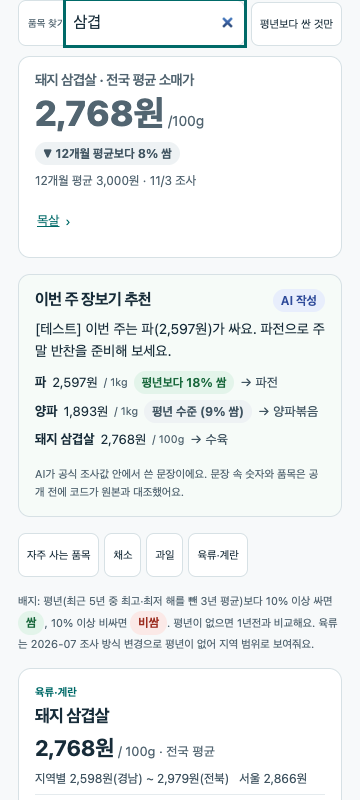
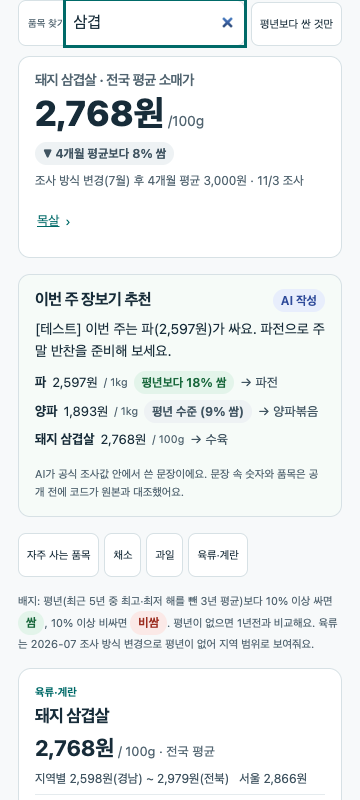
fix: 장보기 기준값 행 변경 시 승계 차단, 카드 UX 보강, 육류 조사 방식 문구

Changed region(s): [[0.0917, 0.125, 0.7028, 0.25], [0.7333, 0.2188, 0.8556, 0.25], [0.0917, 0.125, 0.1528, 0.1562]]

diff --git a/frontend/src/style.css b/frontend/src/style.css
@@ -1,4 +1,4 @@
-:root{font-family:system-ui,-apple-system,BlinkMacSystemFont,"Apple SD Gothic Neo","Malgun Gothic",sans-serif;color:#172c39;background:#f7f9fa;font-synthesis:none;line-height:1.6;font-size:16px;font-weight:400;--accent:#006a68;--muted:#526571;--line:#d7e1e5}*{box-sizing:border-box}body{margin:0}button,input,select{font:inherit;color:inherit}button,a,input,select,summary{-webkit-tap-highlight-color:transparent}button,summary,select{cursor:pointer}button{min-height:44px;border:1px solid var(--line);border-radius:8px;background:white;padding:8px 14px}a{color:var(--accent);text-underline-offset:4px}a:focus-visible,button:focus-visible,input:focus-visible,select:focus-visible,summary:focus-visible,[tabindex]:focus-visible{outline:3px solid #006a68;outline-offset:4px}h1,h2,h3,p{margin:0}h1,h2,h3{line-height:1.35;letter-spacing:-.035em}button:hover{background:#eef5f4}button[aria-pressed=true]{background:#e0f0ed;color:#005d59;border-color:#006a68;font-weight:650}.container,.header-inner{max-width:1200px;margin:0 auto;padding:0 28px}.site-header{border-bottom:1px solid var(--line);background:#fff}.header-inner{height:80px;display:flex;align-items:center;justify-content:space-between;gap:16px}.brand{display:flex;align-items:center;gap:10px;color:#172c39;text-decoration:none;font-size:19px;font-weight:750;min-height:44px;letter-spacing:-.6px}.brand-mark{display:flex;align-items:center;justify-content:center;background:var(--accent);color:white;width:34px;height:34px;border-radius:10px;font-size:22px;letter-spacing:-4px;padding-right:4px}.brand-mark span{font-weight:450}.version{font-size:11px;letter-spacing:0;color:var(--muted);border:1px solid var(--line);border-radius:4px;padding:0 5px}.login-note{font-size:13px;color:var(--muted)}.hero{padding:55px 0 28px}.eyebrow{font-size:12px;letter-spacing:.06em;color:var(--accent);font-weight:700;margin-bottom:13px}.eyebrow span{font-size:9px;margin-right:6px}.hero h1{font-size:42px;font-weight:760;letter-spacing:-.055em;margin-bottom:13px}.hero h1 span{color:var(--accent)}.hero-description{color:var(--muted);font-size:16px}.mobile-break{display:none}.discovery{background:white;border:1px solid var(--line);border-radius:14px;padding:18px}.search-box{display:flex;gap:10px;align-items:center;background:#f7f9fa;border:1px solid #aebdc6;border-radius:9px;padding:0 16px}.search-icon{font-size:30px;line-height:1;color:#526571;transform:rotate(-15deg)}input[type=search]{width:100%;height:54px;min-width:0;background:transparent;border:0;padding:8px 0;outline-offset:0}input::placeholder{color:#62737d}.filter-row{display:flex;align-items:center;gap:10px;flex-wrap:wrap;margin-top:14px}.filter-field{display:flex;align-items:center;border:1px solid var(--line);border-radius:8px;padding-left:12px;background:white;min-width:170px}.filter-field label{font-size:12px;color:var(--muted);white-space:nowrap}.filter-field select{border:0;background:transparent;min-height:44px;padding:8px;max-width:210px;flex:1;min-width:0;font-size:14px}.quick-filters{display:flex;gap:8px}.quick-filters button{font-size:13px}.quick-filters button span{margin-left:5px}.reset{margin-left:auto;font-size:13px;border:0;color:var(--muted);text-decoration:underline}.region-hint{font-size:12px;color:var(--muted);padding:10px 2px}.overview{display:grid;grid-template-columns:1fr 1fr 1.3fr;margin:20px 0 22px;border-bottom:1px solid var(--line);padding:0 0 23px}.overview>div{padding:0 24px;border-right:1px solid var(--line)}.overview>div:first-child{padding-left:0}.overview>div:last-child{border:0}.metric-label{display:block;font-size:12px;color:var(--muted);margin-bottom:4px}.overview strong{display:block;font-size:28px;font-weight:700;line-height:1.5}.overview small{font-size:13px;font-weight:400;margin-left:5px;color:var(--muted)}.overview .last-verified strong{font-size:14px;margin-top:10px;font-weight:550}.notice{display:flex;align-items:flex-start;gap:12px;border:1px solid #c9ded9;background:#edf5f2;border-radius:10px;padding:15px 18px;font-size:13px;color:#244e48}.notice strong{font-weight:650}.notice p{margin-top:3px;color:#405e59;font-size:12px}.status-dot{width:7px;height:7px;border-radius:50%;background:var(--accent);margin-top:8px;flex-shrink:0}.notice.warning{background:#fff5e6;border-color:#e0c9a3;color:#70410a}.notice.warning>span{display:flex;border:1px solid currentColor;width:20px;height:20px;border-radius:50%;justify-content:center;font-weight:750;flex-shrink:0}.notice.warning p{color:#704b20}.notice button{margin-top:12px;font-size:13px}.results{padding:30px 0 45px;scroll-margin-top:15px}.results-heading{display:flex;align-items:center;justify-content:space-between;margin-bottom:18px;gap:10px}.results h2{font-size:21px}.results h2>span{font-size:14px;color:var(--accent);font-weight:650;margin-left:7px;white-space:nowrap}.sort-field select{background:transparent;border:1px solid transparent;min-height:44px;font-size:13px;max-width:130px}.card-grid{display:grid;grid-template-columns:repeat(3,minmax(0,1fr));gap:16px;align-items:start}.benefit-card{display:flex;flex-direction:column;min-width:0;background:#fff;border:1px solid var(--line);border-radius:13px;padding:21px;overflow-wrap:anywhere}.card-meta{display:flex;justify-content:space-between;align-items:center;gap:8px;font-size:11px;margin-bottom:15px}.category{color:var(--accent);font-weight:650}.timing{color:var(--muted);background:#f0f4f5;border-radius:5px;padding:3px 7px}.timing.urgent{background:#fff0d8;color:#805000;font-weight:650}.benefit-card h3{font-size:19px;font-weight:700;display:-webkit-box;-webkit-line-clamp:2;-webkit-box-orient:vertical;overflow:hidden;min-height:52px}.card-source{font-size:12px;color:var(--muted);margin-top:11px}.card-tags{display:flex;flex-wrap:wrap;gap:6px;margin:12px 0}.card-tags span{font-size:11px;border:1px solid #e0e7e9;border-radius:5px;padding:2px 6px;color:#435a66}.card-conditions{font-size:13px;color:#405461;line-height:1.7;display:-webkit-box;-webkit-line-clamp:3;-webkit-box-orient:vertical;overflow:hidden;min-height:66px}.verified{font-size:11px;color:var(--muted);margin:17px 0 12px}.verified time{white-space:nowrap}.card-details{border-top:1px solid #e5ebee}.card-details summary{min-height:44px;display:flex;align-items:center;justify-content:space-between;font-size:13px;font-weight:550;list-style:none}.card-details summary::-webkit-details-marker{display:none}.card-details[open] summary>span{transform:rotate(45deg)}.details-body{padding:8px 0 16px;font-size:13px}.details-body dl{margin:0}.details-body dt{font-size:11px;color:var(--muted);margin-top:12px}.details-body dd{margin:2px 0 0;white-space:pre-line}.original-title{font-size:13px;font-weight:600}.full-conditions{line-height:1.75}.details-body>a{display:inline-flex;align-items:center;min-height:44px;margin-top:10px}.fine-print{font-size:11px;line-height:1.7;color:var(--muted);margin-top:15px}.official-link{display:flex;align-items:center;justify-content:space-between;min-height:44px;border:1px solid #bed6d1;background:#f0f7f5;border-radius:7px;padding:8px 12px;text-decoration:none;font-size:13px;font-weight:650}.official-link:hover{background:#e0efeb}.empty-state{text-align:center;background:white;border:1px dashed #b9c8d0;border-radius:12px;padding:46px 24px;min-height:240px}.empty-symbol{display:inline-flex;align-items:center;justify-content:center;width:46px;height:46px;background:#eff4f5;border-radius:50%;font-size:32px;color:var(--muted);margin-bottom:16px}.empty-state h3{font-size:18px}.empty-state p{color:var(--muted);font-size:13px;margin:10px auto 18px;max-width:470px}.primary-button{background:var(--accent);color:white;border-color:var(--accent)}.primary-button:hover{background:#005451}.trust-section{border-top:1px solid var(--line);padding:35px 0 50px;display:grid;grid-template-columns:1fr 1.2fr;gap:45px}.trust-intro .eyebrow{font-size:11px}.trust-intro h2{font-size:22px}.trust-intro>p:last-child{font-size:13px;color:var(--muted);margin-top:12px}.collection-details>details{background:white;border:1px solid var(--line);border-radius:10px}.collection-details summary{min-height:52px;padding:13px 16px;font-size:14px;font-weight:600}.collection-details summary>span{font-size:11px;color:var(--muted);margin-left:8px}.coverage-body{padding:0 18px 18px;overflow-wrap:anywhere;font-size:12px}.coverage-body p{margin:12px 0;color:var(--muted)}.coverage-body ul{list-style:none;padding:0}.coverage-body li{border-top:1px solid #e5ebee;padding:10px 0;display:flex;flex-direction:column;gap:3px}.coverage-body li span,.coverage-body li small{color:var(--muted)}.site-footer{background:#fff;border-top:1px solid var(--line)}.footer-inner{padding-top:26px;padding-bottom:26px;display:flex;justify-content:space-between;gap:18px;flex-wrap:wrap;font-size:12px}.footer-inner strong{font-size:14px}.footer-inner p{color:var(--muted);margin-top:4px}.footer-inner nav{display:flex;gap:20px;align-items:flex-start}.footer-inner nav a{min-height:44px;display:flex;align-items:center}.cost-note{width:100%;font-size:10px}.sr-only{position:absolute;width:1px;height:1px;padding:0;margin:-1px;overflow:hidden;clip:rect(0,0,0,0);white-space:nowrap;border:0}.skip-link{position:fixed;top:-100px;left:12px;z-index:10;background:#fff;padding:12px;border:2px solid var(--accent)}.skip-link:focus{top:12px}@media(max-width:1199px){.card-grid{grid-template-columns:repeat(2,minmax(0,1fr))}}@media(max-width:767px){.container,.header-inner{padding-left:18px;padding-right:18px}.header-inner{height:65px}.brand{font-size:16px;gap:8px}.brand-mark{width:30px;height:30px;font-size:19px}.version{display:none}.login-note{font-size:10px}.hero{padding:31px 0 23px}.hero h1{font-size:34px;margin-bottom:12px}.mobile-break{display:initial}.hero-description{font-size:13px;line-height:1.8}.eyebrow{font-size:10px}.discovery{padding:12px;border-radius:11px}.search-box{padding:0 10px;gap:7px}.search-icon{font-size:26px}input[type=search]{height:48px;font-size:13px}.filter-row{gap:8px;margin-top:10px}.filter-field{min-width:0;width:calc(50% - 4px);padding-left:9px}.filter-field select{max-width:100%;font-size:12px;padding-right:4px}.filter-field label{font-size:10px}.quick-filters button{font-size:12px;padding:8px 11px}.quick-filters{gap:7px}.reset{margin-left:0;font-size:11px;padding:6px 4px}.region-hint{font-size:10px;padding-top:8px}.overview{margin-top:13px;padding-bottom:18px;grid-template-columns:1fr 1fr;row-gap:16px}.overview>div{padding:0 15px}.overview>div:nth-child(2){border:0}.overview>div.last-verified{padding:0;grid-column:1/-1;display:flex;align-items:center;gap:10px}.overview .last-verified strong{font-size:11px;margin-top:0}.last-verified .metric-label{font-size:10px;margin:0}.metric-label{font-size:11px}.overview strong{font-size:25px}.notice{padding:12px;gap:9px;font-size:12px}.notice p{font-size:11px}.results{padding-top:23px;padding-bottom:31px}.results h2{font-size:18px}.results h2>span{font-size:12px}.sort-field select{font-size:11px}.card-grid{grid-template-columns:minmax(0,1fr);gap:13px}.benefit-card{padding:18px}.benefit-card h3{font-size:19px;min-height:0}.card-meta{margin-bottom:13px}.card-conditions{min-height:0}.verified{font-size:10px;margin-top:14px}.trust-section{grid-template-columns:1fr;gap:21px;padding:28px 0 35px}.trust-intro h2{font-size:20px}.trust-intro>p:last-child{font-size:12px}.footer-inner{gap:12px}.footer-inner nav{gap:15px}.footer-inner nav a{font-size:11px}.empty-state{padding:30px 18px}.empty-state h3{font-size:16px}}@media(prefers-reduced-motion:reduce){*,*::before,*::after{scroll-behavior:auto!important;animation:none!important;transition:none!important}}@media(forced-colors:active){button,.official-link{border:1px solid ButtonText}.status-dot{border:1px solid CanvasText}}
+:root{font-family:system-ui,-apple-system,BlinkMacSystemFont,"Apple SD Gothic Neo","Malgun Gothic",sans-serif;color:#172c39;background:#f7f9fa;font-synthesis:none;line-height:1.6;font-size:16px;font-weight:400;--ink:#172c39;--accent:#006a68;--muted:#526571;--line:#d7e1e5}*{box-sizing:border-box}body{margin:0}button,input,select{font:inherit;color:inherit}button,a,input,select,summary{-webkit-tap-highlight-color:transparent}button,summary,select{cursor:pointer}button{min-height:44px;border:1px solid var(--line);border-radius:8px;background:white;padding:8px 14px}a{color:var(--accent);text-underline-offset:4px}a:focus-visible,button:focus-visible,input:focus-visible,select:focus-visible,summary:focus-visible,[tabindex]:focus-visible{outline:3px solid #006a68;outline-offset:4px}h1,h2,h3,p{margin:0}h1,h2,h3{line-height:1.35;letter-spacing:-.035em}button:hover{background:#eef5f4}button[aria-pressed=true]{background:#e0f0ed;color:#005d59;border-color:#006a68;font-weight:650}.container,.header-inner{max-width:1200px;margin:0 auto;padding:0 28px}.site-header{border-bottom:1px solid var(--line);background:#fff}.header-inner{height:80px;display:flex;align-items:center;justify-content:space-between;gap:16px}.brand{display:flex;align-items:center;gap:10px;color:#172c39;text-decoration:none;font-size:19px;font-weight:750;min-height:44px;letter-spacing:-.6px}.brand-mark{display:flex;align-items:center;justify-content:center;background:var(--accent);color:white;width:34px;height:34px;border-radius:10px;font-size:22px;letter-spacing:-4px;padding-right:4px}.brand-mark span{font-weight:450}.version{font-size:11px;letter-spacing:0;color:var(--muted);border:1px solid var(--line);border-radius:4px;padding:0 5px}.login-note{font-size:13px;color:var(--muted)}.hero{padding:55px 0 28px}.eyebrow{font-size:12px;letter-spacing:.06em;color:var(--accent);font-weight:700;margin-bottom:13px}.eyebrow span{font-size:9px;margin-right:6px}.hero h1{font-size:42px;font-weight:760;letter-spacing:-.055em;margin-bottom:13px}.hero h1 span{color:var(--accent)}.hero-description{color:var(--muted);font-size:16px}.mobile-break{display:none}.discovery{background:white;border:1px solid var(--line);border-radius:14px;padding:18px}.search-box{display:flex;gap:10px;align-items:center;background:#f7f9fa;border:1px solid #aebdc6;border-radius:9px;padding:0 16px}.search-icon{font-size:30px;line-height:1;color:#526571;transform:rotate(-15deg)}input[type=search]{width:100%;height:54px;min-width:0;background:transparent;border:0;padding:8px 0;outline-offset:0}input::placeholder{color:#62737d}.filter-row{display:flex;align-items:center;gap:10px;flex-wrap:wrap;margin-top:14px}.filter-field{display:flex;align-items:center;border:1px solid var(--line);border-radius:8px;padding-left:12px;background:white;min-width:170px}.filter-field label{font-size:12px;color:var(--muted);white-space:nowrap}.filter-field select{border:0;background:transparent;min-height:44px;padding:8px;max-width:210px;flex:1;min-width:0;font-size:14px}.quick-filters{display:flex;gap:8px}.quick-filters button{font-size:13px}.quick-filters button span{margin-left:5px}.reset{margin-left:auto;font-size:13px;border:0;color:var(--muted);text-decoration:underline}.region-hint{font-size:12px;color:var(--muted);padding:10px 2px}.overview{display:grid;grid-template-columns:1fr 1fr 1.3fr;margin:20px 0 22px;border-bottom:1px solid var(--line);padding:0 0 23px}.overview>div{padding:0 24px;border-right:1px solid var(--line)}.overview>div:first-child{padding-left:0}.overview>div:last-child{border:0}.metric-label{display:block;font-size:12px;color:var(--muted);margin-bottom:4px}.overview strong{display:block;font-size:28px;font-weight:700;line-height:1.5}.overview small{font-size:13px;font-weight:400;margin-left:5px;color:var(--muted)}.overview .last-verified strong{font-size:14px;margin-top:10px;font-weight:550}.notice{display:flex;align-items:flex-start;gap:12px;border:1px solid #c9ded9;background:#edf5f2;border-radius:10px;padding:15px 18px;font-size:13px;color:#244e48}.notice strong{font-weight:650}.notice p{margin-top:3px;color:#405e59;font-size:12px}.status-dot{width:7px;height:7px;border-radius:50%;background:var(--accent);margin-top:8px;flex-shrink:0}.notice.warning{background:#fff5e6;border-color:#e0c9a3;color:#70410a}.notice.warning>span{display:flex;border:1px solid currentColor;width:20px;height:20px;border-radius:50%;justify-content:center;font-weight:750;flex-shrink:0}.notice.warning p{color:#704b20}.notice button{margin-top:12px;font-size:13px}.results{padding:30px 0 45px;scroll-margin-top:15px}.results-heading{display:flex;align-items:center;justify-content:space-between;margin-bottom:18px;gap:10px}.results h2{font-size:21px}.results h2>span{font-size:14px;color:var(--accent);font-weight:650;margin-left:7px;white-space:nowrap}.sort-field select{background:transparent;border:1px solid transparent;min-height:44px;font-size:13px;max-width:130px}.card-grid{display:grid;grid-template-columns:repeat(3,minmax(0,1fr));gap:16px;align-items:start}.benefit-card{display:flex;flex-direction:column;min-width:0;background:#fff;border:1px solid var(--line);border-radius:13px;padding:21px;overflow-wrap:anywhere}.card-meta{display:flex;justify-content:space-between;align-items:center;gap:8px;font-size:11px;margin-bottom:15px}.category{color:var(--accent);font-weight:650}.timing{color:var(--muted);background:#f0f4f5;border-radius:5px;padding:3px 7px}.timing.urgent{background:#fff0d8;color:#805000;font-weight:650}.benefit-card h3{font-size:19px;font-weight:700;display:-webkit-box;-webkit-line-clamp:2;-webkit-box-orient:vertical;overflow:hidden;min-height:52px}.card-source{font-size:12px;color:var(--muted);margin-top:11px}.card-tags{display:flex;flex-wrap:wrap;gap:6px;margin:12px 0}.card-tags span{font-size:11px;border:1px solid #e0e7e9;border-radius:5px;padding:2px 6px;color:#435a66}.card-conditions{font-size:13px;color:#405461;line-height:1.7;display:-webkit-box;-webkit-line-clamp:3;-webkit-box-orient:vertical;overflow:hidden;min-height:66px}.verified{font-size:11px;color:var(--muted);margin:17px 0 12px}.verified time{white-space:nowrap}.card-details{border-top:1px solid #e5ebee}.card-details summary{min-height:44px;display:flex;align-items:center;justify-content:space-between;font-size:13px;font-weight:550;list-style:none}.card-details summary::-webkit-details-marker{display:none}.card-details[open] summary>span{transform:rotate(45deg)}.details-body{padding:8px 0 16px;font-size:13px}.details-body dl{margin:0}.details-body dt{font-size:11px;color:var(--muted);margin-top:12px}.details-body dd{margin:2px 0 0;white-space:pre-line}.original-title{font-size:13px;font-weight:600}.full-conditions{line-height:1.75}.details-body>a{display:inline-flex;align-items:center;min-height:44px;margin-top:10px}.fine-print{font-size:11px;line-height:1.7;color:var(--muted);margin-top:15px}.official-link{display:flex;align-items:center;justify-content:space-between;min-height:44px;border:1px solid #bed6d1;background:#f0f7f5;border-radius:7px;padding:8px 12px;text-decoration:none;font-size:13px;font-weight:650}.official-link:hover{background:#e0efeb}.empty-state{text-align:center;background:white;border:1px dashed #b9c8d0;border-radius:12px;padding:46px 24px;min-height:240px}.empty-symbol{display:inline-flex;align-items:center;justify-content:center;width:46px;height:46px;background:#eff4f5;border-radius:50%;font-size:32px;color:var(--muted);margin-bottom:16px}.empty-state h3{font-size:18px}.empty-state p{color:var(--muted);font-size:13px;margin:10px auto 18px;max-width:470px}.primary-button{background:var(--accent);color:white;border-color:var(--accent)}.primary-button:hover{background:#005451}.trust-section{border-top:1px solid var(--line);padding:35px 0 50px;display:grid;grid-template-columns:1fr 1.2fr;gap:45px}.trust-intro .eyebrow{font-size:11px}.trust-intro h2{font-size:22px}.trust-intro>p:last-child{font-size:13px;color:var(--muted);margin-top:12px}.collection-details>details{background:white;border:1px solid var(--line);border-radius:10px}.collection-details summary{min-height:52px;padding:13px 16px;font-size:14px;font-weight:600}.collection-details summary>span{font-size:11px;color:var(--muted);margin-left:8px}.coverage-body{padding:0 18px 18px;overflow-wrap:anywhere;font-size:12px}.coverage-body p{margin:12px 0;color:var(--muted)}.coverage-body ul{list-style:none;padding:0}.coverage-body li{border-top:1px solid #e5ebee;padding:10px 0;display:flex;flex-direction:column;gap:3px}.coverage-body li span,.coverage-body li small{color:var(--muted)}.site-footer{background:#fff;border-top:1px solid var(--line)}.footer-inner{padding-top:26px;padding-bottom:26px;display:flex;justify-content:space-between;gap:18px;flex-wrap:wrap;font-size:12px}.footer-inner strong{font-size:14px}.footer-inner p{color:var(--muted);margin-top:4px}.footer-inner nav{display:flex;gap:20px;align-items:flex-start}.footer-inner nav a{min-height:44px;display:flex;align-items:center}.cost-note{width:100%;font-size:10px}.sr-only{position:absolute;width:1px;height:1px;padding:0;margin:-1px;overflow:hidden;clip:rect(0,0,0,0);white-space:nowrap;border:0}.skip-link{position:fixed;top:-100px;left:12px;z-index:10;background:#fff;padding:12px;border:2px solid var(--accent)}.skip-link:focus{top:12px}@media(max-width:1199px){.card-grid{grid-template-columns:repeat(2,minmax(0,1fr))}}@media(max-width:767px){.container,.header-inner{padding-left:18px;padding-right:18px}.header-inner{height:65px}.brand{font-size:16px;gap:8px}.brand-mark{width:30px;height:30px;font-size:19px}.version{display:none}.login-note{font-size:10px}.hero{padding:31px 0 23px}.hero h1{font-size:34px;margin-bottom:12px}.mobile-break{display:initial}.hero-description{font-size:13px;line-height:1.8}.eyebrow{font-size:10px}.discovery{padding:12px;border-radius:11px}.search-box{padding:0 10px;gap:7px}.search-icon{font-size:26px}input[type=search]{height:48px;font-size:13px}.filter-row{gap:8px;margin-top:10px}.filter-field{min-width:0;width:calc(50% - 4px);padding-left:9px}.filter-field select{max-width:100%;font-size:12px;padding-right:4px}.filter-field label{font-size:10px}.quick-filters button{font-size:12px;padding:8px 11px}.quick-filters{gap:7px}.reset{margin-left:0;font-size:11px;padding:6px 4px}.region-hint{font-size:10px;padding-top:8px}.overview{margin-top:13px;padding-bottom:18px;grid-template-columns:1fr 1fr;row-gap:16px}.overview>div{padding:0 15px}.overview>div:nth-child(2){border:0}.overview>div.last-verified{padding:0;grid-column:1/-1;display:flex;align-items:center;gap:10px}.overview .last-verified strong{font-size:11px;margin-top:0}.last-verified .metric-label{font-size:10px;margin:0}.metric-label{font-size:11px}.overview strong{font-size:25px}.notice{padding:12px;gap:9px;font-size:12px}.notice p{font-size:11px}.results{padding-top:23px;padding-bottom:31px}.results h2{font-size:18px}.results h2>span{font-size:12px}.sort-field select{font-size:11px}.card-grid{grid-template-columns:minmax(0,1fr);gap:13px}.benefit-card{padding:18px}.benefit-card h3{font-size:19px;min-height:0}.card-meta{margin-bottom:13px}.card-conditions{min-height:0}.verified{font-size:10px;margin-top:14px}.trust-section{grid-template-columns:1fr;gap:21px;padding:28px 0 35px}.trust-intro h2{font-size:20px}.trust-intro>p:last-child{font-size:12px}.footer-inner{gap:12px}.footer-inner nav{gap:15px}.footer-inner nav a{font-size:11px}.empty-state{padding:30px 18px}.empty-state h3{font-size:16px}}@media(prefers-reduced-motion:reduce){*,*::before,*::after{scroll-behavior:auto!important;animation:none!important;transition:none!important}}@media(forced-colors:active){button,.official-link{border:1px solid ButtonText}.status-dot{border:1px solid CanvasText}}
 
 /* Keep the first benefit headline within the initial mobile viewport. */
 @media(max-width:767px){.hero{padding:22px 0 20px}.hero h1{font-size:30px;margin-bottom:10px}.hero .mobile-break{display:none}.hero .eyebrow{margin-bottom:10px}.overview{grid-template-columns:1fr 1fr 1.5fr;gap:0;padding-bottom:14px;margin-bottom:18px}.overview>div{padding:0 10px}.overview>div:nth-child(2){border-right:1px solid var(--line)}.overview>div.last-verified{padding:0 0 0 10px;grid-column:auto;display:block}.overview .last-verified strong{font-size:10px;margin-top:6px}.metric-label,.last-verified .metric-label{font-size:10px}.card-conditions{font-size:14px}.official-link{font-size:14px}}
@@ -84,4 +84,4 @@
 .groceries{border-top:0}
 @media(max-width:767px){.pick-teaser h2{font-size:16px}.pick-teaser-summary{font-size:14px}}
 .pick-teaser-date{font-size:12px;color:var(--muted);margin:0 0 8px}
-.grocery-quick{border:1px solid var(--line);border-radius:12px;background:white;padding:14px 16px;margin:6px 0 16px}.grocery-quick h3{font-size:14px;font-weight:600;color:var(--muted);margin:0}.grocery-quick-price{margin:2px 0 6px;font-size:14px;color:var(--muted)}.grocery-quick-price strong{font-size:2.2rem;font-weight:800;color:inherit;line-height:1.2}.grocery-quick-note{margin:6px 0 0;font-size:12px;color:var(--muted)}.grocery-quick-links{margin:8px 0 0;font-size:13px;color:var(--accent)}.grocery-quick-links button{background:none;border:0;padding:0 2px;min-height:44px;font:inherit;color:var(--accent);cursor:pointer;text-decoration:underline}
+.grocery-quick{border:1px solid var(--line);border-radius:12px;background:white;padding:14px 16px;margin:6px 0 16px}.grocery-quick h3{font-size:14px;font-weight:600;color:var(--muted);margin:0}.grocery-quick-price{margin:2px 0 6px;font-size:14px;color:var(--muted)}.grocery-quick-price strong{font-size:2.2rem;font-weight:800;color:var(--ink);line-height:1.2}.grocery-quick-note{margin:6px 0 0;font-size:12px;color:var(--muted)}.grocery-quick-links{margin:8px 0 0;font-size:13px;color:var(--accent)}.grocery-quick-links button{background:none;border:0;padding:0 2px;min-height:44px;font:inherit;color:var(--accent);cursor:pointer;text-decoration:underline}

diff --git a/frontend/tests/e2e/groceries.spec.ts b/frontend/tests/e2e/groceries.spec.ts
@@ -128,7 +128,7 @@ const quickGroceries={...groceries,meat:{...groceries.meat,items:[...groceries.m
 const baseUnit='원/100g',checked=kst(1);
 const bl=(avg:number)=>({avg,months:14,from:'2025-09',to:'2026-10',unit:baseUnit,checked_at:checked});
 const grocery_baselines={schema_version:1,source:'grocery_baselines',items:[
- {id:'samgyeop',name:'돼지 삼겹살',aliases:['삼겹살','삼겹'],group:'고기·알',row:{kind:'meat',id:'4304-27-삼겹살'},baseline:bl(3000)},
+ {id:'samgyeop',name:'돼지 삼겹살',aliases:['삼겹살','삼겹'],group:'고기·알',row:{kind:'meat',id:'4304-27-삼겹살'},baseline:{...bl(3000),months:4}},
  {id:'daepae',name:'대패삼겹',aliases:['대패'],group:'고기·알',row:{kind:'meat',id:'9999-0-대패삼겹'},baseline:null},
  {id:'moksal',name:'목살',aliases:['돼지 목살'],group:'고기·알',row:{kind:'meat',id:'4304-28-목살'},baseline:null},
  {id:'apdari',name:'앞다리',aliases:['돼지 앞다리'],group:'고기·알',row:{kind:'meat',id:'9999-1-앞다리'},baseline:null}]};
@@ -153,7 +153,7 @@ for(const [width,height] of [[360,800],[390,844]])test(`quick check card answers
  await expect(card.locator('h3')).toHaveText('돼지 삼겹살 · 전국 평균 소매가');
  await expect(card.locator('.grocery-quick-price')).toHaveText(/2,768원\s*\/100g/);
  await expect(card.locator('.grocery-badge')).toContainText('개월 평균보다');
- await expect(card.locator('.grocery-quick-note')).toHaveText(`12개월 평균 3,000원 · ${m}/${d} 조사`);
+ await expect(card.locator('.grocery-quick-note')).toHaveText(`조사 방식 변경(7월) 후 4개월 평균 3,000원 · ${m}/${d} 조사`);
  // Items without a row today (대패삼겹, 앞다리) are not offered as links.
  await expect(card.locator('.grocery-quick-links')).toHaveText('목살 ›');
  await expect(card.getByRole('button',{name:'대패삼겹'})).toHaveCount(0);
@@ -166,6 +166,25 @@ for(const [width,height] of [[360,800],[390,844]])test(`quick check card answers
  await expect(card.locator('.grocery-badge')).toHaveCount(0);
  await expect(card.locator('.grocery-quick-note')).toHaveText(`${m}/${d} 조사`);
  expect(await page.evaluate(()=>document.documentElement.scrollWidth<=innerWidth)).toBe(true);
+});
+
+test('an alias-only search shows the card without the empty-state block and scrolls once',async({page})=>{
+ await page.setViewportSize({width:390,height:844});
+ await page.clock.install({time:new Date(NOW)});
+ await page.route('**/briefing.json',route=>route.fulfill({json:snapshot(undefined,{groceries:quickGroceries,grocery_pick:weekly,grocery_baselines})}));
+ await page.goto('./');
+ await page.getByRole('tab',{name:'장보기'}).click();
+ await page.evaluate(()=>{(window as any).__sc=0;const o=Element.prototype.scrollIntoView;Element.prototype.scrollIntoView=function(...a){if((this as Element).classList.contains('grocery-filters'))(window as any).__sc++;return o.apply(this,a as any);};});
+ const input=page.locator('#grocery-q');
+ await input.fill('삼겹');
+ await expect(page.locator('.grocery-quick h3')).toHaveText('돼지 삼겹살 · 전국 평균 소매가');
+ await input.pressSequentially('살');
+ await expect(page.locator('.grocery-quick h3')).toHaveText('돼지 삼겹살 · 전국 평균 소매가');
+ expect(await page.evaluate(()=>(window as any).__sc)).toBe(1);
+ await input.fill('돼지 목살');
+ await expect(page.locator('.grocery-quick h3')).toHaveText('목살 · 전국 평균 소매가');
+ await expect(page.locator('#groceries .empty-state')).toHaveCount(0);
+ expect(await page.evaluate(()=>(window as any).__sc)).toBe(2);
 });
 
 test('a search outside the basket explains it and shows no card',async({page})=>{

diff --git a/frontend/src/GrocerySection.vue b/frontend/src/GrocerySection.vue
@@ -38,8 +38,13 @@ function othersLine(r:PriceRow):string{
 const inBasket=computed(()=>!!quickMatch(q.value,basketItems.value));
 // Without a basket (baselines missing/stale) we cannot claim an item is outside it.
 const showNotInBasket=computed(()=>!!q.value.trim()&&basketItems.value.length>0&&!inBasket.value);
-// Bring the search field to the top so the card's answer (price + badge) is on the first screen.
-watch(q,()=>nextTick(()=>{if(document.querySelector('.grocery-quick'))document.querySelector('.grocery-filters')?.scrollIntoView({block:'start'});}));
+// The card shows only when the best basket match has a row today (same rule as GroceryQuickCheck).
+const quickKey=computed(()=>{
+ const hit=quickMatch(q.value,basketItems.value);
+ return hit&&bundle.value?.rows.some(r=>r.kind+r.id===hit.best.rowKey)?hit.best.rowKey:'';
+});
+// Bring the search field to the top once when the card first appears (or its best item changes), not on every keystroke.
+watch(quickKey,k=>{if(k)nextTick(()=>document.querySelector('.grocery-filters')?.scrollIntoView({block:'start'}));});
 function pickName(name:string){q.value=name;shown.value=PAGE;nextTick(()=>document.getElementById('grocery-q')?.focus());}
 function pick(c:string){category.value=c;q.value='';shown.value=PAGE;}
 </script>
@@ -103,7 +108,7 @@ function pick(c:string){category.value=c;q.value='';shown.value=PAGE;}
         <a class="grocery-source" :href="row.kind==='meat'?EKAPE_SOURCE:KAMIS_SOURCE" target="_blank" rel="noopener noreferrer">출처 {{ row.kind==='meat'?'축산물품질평가원':'KAMIS' }} <span aria-hidden="true">↗</span><span class="sr-only"> (새 창)</span></a>
       </article>
     </div>
-    <div v-else class="empty-state"><h3>조건에 맞는 품목이 없어요</h3><p>다른 부류를 고르거나 검색어를 바꿔 보세요.</p><p v-if="showNotInBasket">아직 자주 사는 품목에 없어요</p></div>
+    <div v-else-if="!quickKey" class="empty-state"><h3>조건에 맞는 품목이 없어요</h3><p>다른 부류를 고르거나 검색어를 바꿔 보세요.</p><p v-if="showNotInBasket">아직 자주 사는 품목에 없어요</p></div>
     <button v-if="filtered.length>visible.length" type="button" class="festival-more" @click="shown+=PAGE">더 보기 ({{ filtered.length-visible.length }}개 남음)</button>
   </section>
 </template>

diff --git a/frontend/src/GroceryQuickCheck.vue b/frontend/src/GroceryQuickCheck.vue
@@ -21,7 +21,7 @@ const view=computed(()=>{
     <h3>{{ view.item.name }} · 전국 평균 소매가</h3>
     <p class="grocery-quick-price"><strong>{{ won(view.row.current) }}</strong> /{{ view.row.unit.replace(/^원\//,'') }}</p>
     <span v-if="view.badge" class="grocery-badge" :class="view.badge.level">{{ view.badge.label }}</span>
-    <p class="grocery-quick-note"><template v-if="view.avg">{{ Math.min(view.avg.months,12) }}개월 평균 {{ won(view.avg.avg) }}<template v-if="view.date"> · </template></template><template v-if="view.date">{{ view.date }} 조사</template></p>
+    <p class="grocery-quick-note"><template v-if="view.avg"><template v-if="view.row.kind==='meat'">조사 방식 변경(7월) 후 </template>{{ Math.min(view.avg.months,12) }}개월 평균 {{ won(view.avg.avg) }}<template v-if="view.date"> · </template></template><template v-if="view.date">{{ view.date }} 조사</template></p>
     <p v-if="view.others.length" class="grocery-quick-links"><template v-for="(o,i) in view.others" :key="o.id"><template v-if="i"> · </template><button type="button" @click="emit('pick',o.name)">{{ o.name }}</button></template> ›</p>
   </div>
   </div>

diff --git a/benefit_monitor/grocery_baselines.py b/benefit_monitor/grocery_baselines.py
@@ -200,7 +200,7 @@ def collect(source, now, previous):
     today = _kst_today(now)
     checked = today.isoformat()
     kept = sanitize(previous, now)
-    prev = {i["id"]: i["baseline"] for i in kept["items"]} if kept else {}
+    prev = {i["id"]: i for i in kept["items"]} if kept else {}
     requests = _Requests(domains)
     for base, url in ((groceries.KAMIS, groceries.KAMIS_DAILY), (groceries.EKAPE, groceries.EKAPE_REGION)):
         requests.used += 1
@@ -249,7 +249,12 @@ def collect(source, now, previous):
             pass
     out = []
     for item in items:
-        baseline = result[item["id"]] if item["id"] in result else prev.get(item["id"])
+        if item["id"] in result:
+            baseline = result[item["id"]]
+        else:
+            old = prev.get(item["id"])
+            # Inherit only when the basket row is unchanged; a changed row would carry another series' average.
+            baseline = old["baseline"] if old and old["row"] == item["row"] else None
         out.append({k: item[k] for k in ("id", "name", "aliases", "group", "row")} | {"baseline": baseline})
     return {"schema_version": 1, "source": "grocery_baselines", "fetched_at": now.isoformat(), "items": out}
 

diff --git a/tests/test_grocery_baselines.py b/tests/test_grocery_baselines.py
@@ -319,6 +319,16 @@ class CollectTests(unittest.TestCase):
         self.assertEqual(got['rice']['baseline'], good())  # previous value and previous checked_at
         self.assertEqual(got['potato']['baseline']['checked_at'], '2026-11-10')
 
+    def test_collect_drops_previous_when_basket_row_changed(self):
+        previous = previous_bundle(good())
+        for item in previous['items']:
+            if item['id'] == 'rice':
+                item['row'] = {'kind': 'produce', 'id': 'old-row-id'}
+        web = FakeWeb(fail={'111': OSError('boom')})
+        got = by_id(run_collect(web, previous))
+        self.assertIsNone(got['rice']['baseline'])  # old row's average is not inherited by the new row
+        self.assertEqual(got['potato']['baseline']['checked_at'], '2026-11-10')
+
     def test_collect_robots_disallow_raises(self):
         def web(url, domains):
             if url.endswith('/robots.txt'):

diff --git a/AGENTS.md b/AGENTS.md
@@ -124,7 +124,7 @@ Python 표준 라이브러리만 사용한다. 키는 Git 제외·600 권한의 
 - 매장 가격 계산기는 브라우저 안에서만 계산하고 입력값을 저장·전송하지 않는다.
 - 이 변경으로 `publish.py`·`public_snapshot.py`가 바뀌어 `public/topic-publication.json`의 `policy_sha256`을 다시 기록했다. 주제 카드 게이트 로직은 바뀌지 않았다.
 
-장보기 "싼지 빠르게 확인" 카드의 기간 평균 기준값은 주 1회(일요일 23:07 KST, `.github/workflows/grocery-baselines.yml`)만 따로 수집한다. 요청은 약 27회이며 상한은 30회(`grocery_baselines.MAX_REQUESTS`)다. 결과는 `briefing-data/grocery-baselines.json`에 두고 일일 실행은 복원만 한다. 축산물은 2026-07-01(조사 방법 변경일) 이후만 평균에 쓰고, 30일이 지난 기준값은 폐기해 값으로 쓰지 않는다. 같은 무료 출처·익명 GET·robots·허용목록 규칙이며 사용자 승인일은 2026-11-10이다.
+장보기 "싼지 빠르게 확인" 카드의 기간 평균 기준값은 주 1회(일요일 23:07 KST, `.github/workflows/grocery-baselines.yml`)만 따로 수집한다. 요청은 약 27회이며 상한은 30회(`grocery_baselines.MAX_REQUESTS`)다. 결과는 `briefing-data/grocery-baselines.json`에 두고 일일 실행은 복원만 한다. 축산물은 2026-07-01(조사 방법 변경일) 이후만 평균에 쓰고, 30일이 지난 기준값은 폐기해 값으로 쓰지 않는다. 같은 무료 출처·익명 GET·robots·허용목록 규칙이며 사용자 승인일은 2026-11-10이다. 주간 워크플로는 일일 pages 실행과 동시 실행 그룹 `benefit-pages`를 일부러 공유한다(둘 다 briefing-data에 쓰기 때문). 그 순간 대기 중이던 pages 실행은 교체될 수 있으니 다시 dispatch한다. KAMIS 계절 품종(배추·무·감자)이 바뀌면 `sources/groceries.json`의 장바구니 행을 직접 고쳐야 하며, 고치기 전까지 그 카드는 숨겨진다(안전한 실패).
 
 ## 승인된 AI 주말 장보기 추천(모델 문장 공개 예외) — 2026-11-09
 
